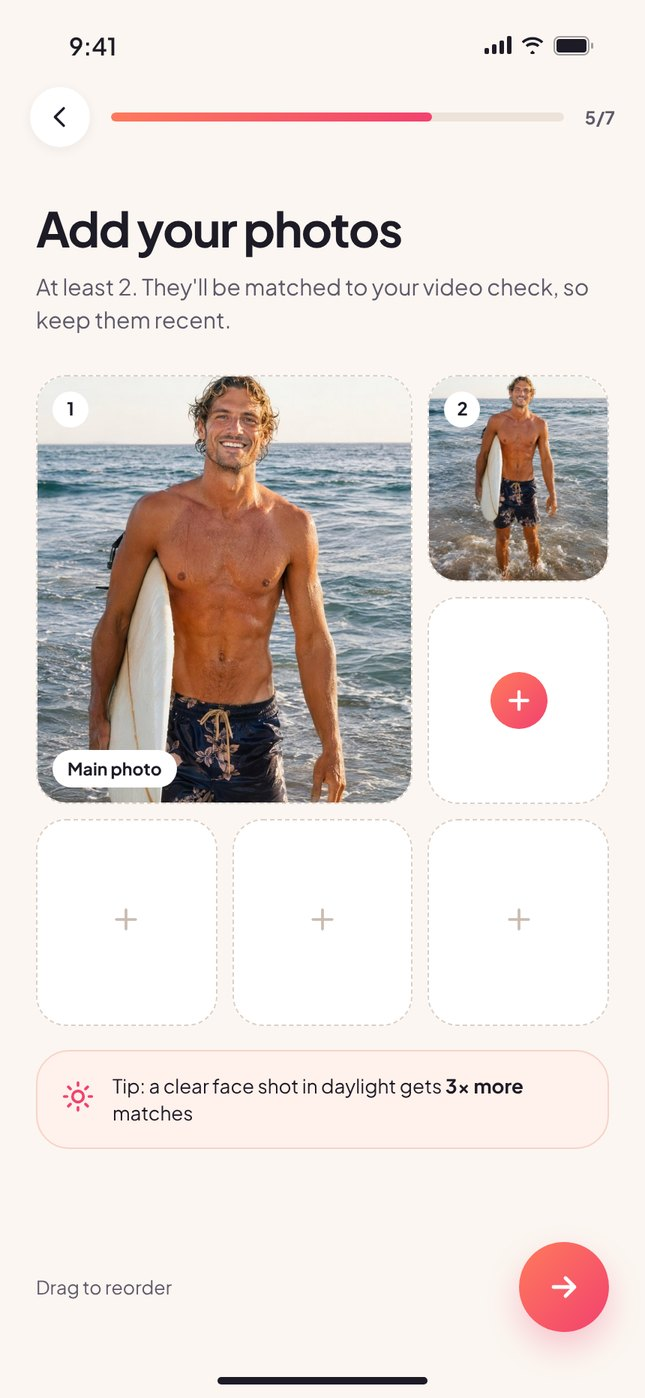
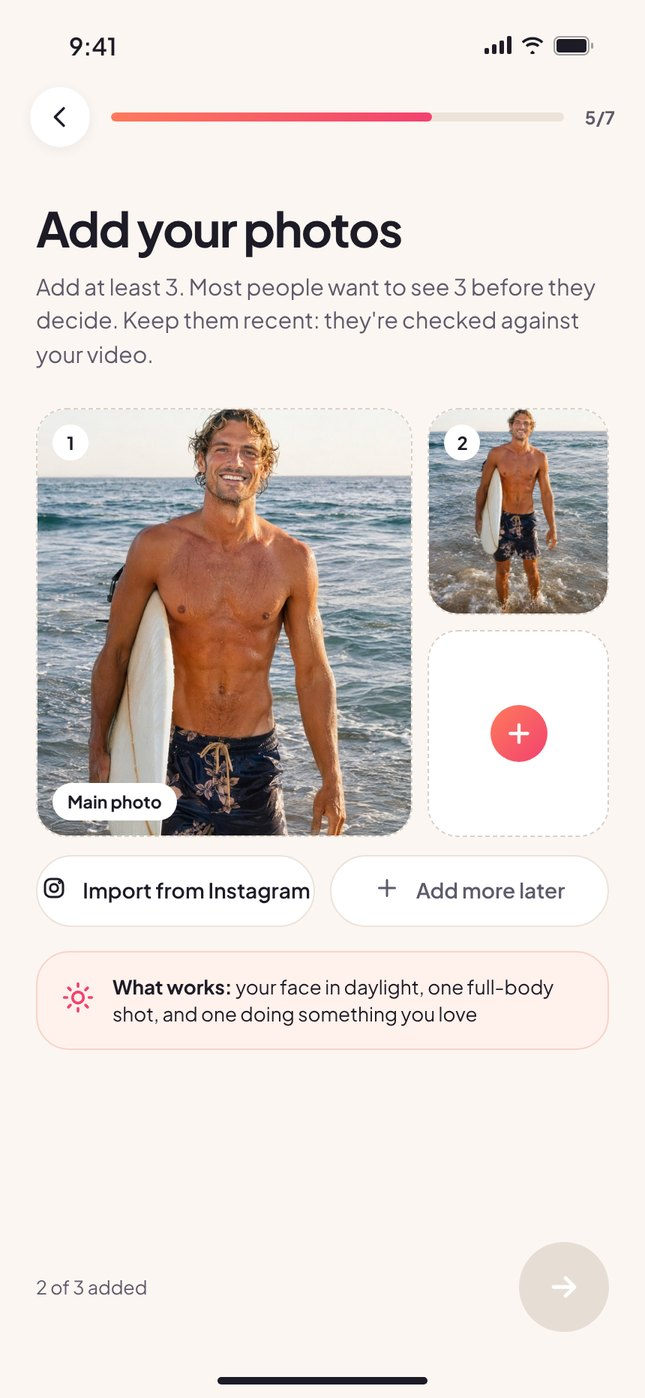
Vidit: add real survey research, brief vs research, updated screens
Claude-Session: https://claude.ai/code/session_01CtJMhMmNPj9aGCH1E7C3GP

diff --git a/vidit.html b/vidit.html
@@ -105,6 +105,19 @@ footer{padding:40px var(--pad) 56px;max-width:1240px;margin:0 auto;display:flex;
 .next .nn b{display:inline-block;transition:transform .3s}.next:hover .nn b{transform:translateX(10px)}
 .next .ns{display:block;font-size:15px;opacity:.6;margin-top:6px}
 .next .nl{color:var(--pink);opacity:1;font-weight:700}.next .nn{font-weight:800}
+.lead2{font-size:17px;color:#4a4653;max-width:68ch;margin-top:18px}
+.nums{display:grid;grid-template-columns:repeat(3,minmax(0,1fr));gap:36px 32px;margin-top:40px}
+@media(max-width:860px){.nums{grid-template-columns:repeat(2,minmax(0,1fr))}}
+.nums b{display:block;font-size:clamp(40px,5vw,60px);font-weight:800;letter-spacing:-.045em;line-height:1;background:var(--grad);-webkit-background-clip:text;background-clip:text;color:transparent}
+.nums span{display:block;font-size:14.5px;color:var(--muted);margin-top:10px;max-width:30ch}
+.vs{margin-top:36px;display:flex;flex-direction:column;gap:12px}
+.vrow{display:grid;grid-template-columns:1fr 1.3fr 1.3fr;gap:28px;background:#fff;border-radius:22px;padding:24px 26px}
+@media(max-width:860px){.vrow{grid-template-columns:1fr;gap:12px}}
+.vrow .k{display:block;font-size:11.5px;font-weight:800;letter-spacing:.08em;text-transform:uppercase;color:var(--pink);margin-bottom:6px}
+.vrow h4{font-size:19px;font-weight:700;letter-spacing:-.015em;line-height:1.25}
+.vrow p{font-size:14.5px;color:#4a4653}
+.flow{grid-template-columns:repeat(5,1fr)!important}
+@media(max-width:600px){.flow{grid-template-columns:repeat(3,1fr)!important}}
 </style>
 </head>
 <body>
@@ -120,8 +133,8 @@ footer{padding:40px var(--pad) 56px;max-width:1240px;margin:0 auto;display:flex;
    <div class="facts">
     <div><span>Role</span>Product designer, end to end</div>
     <div><span>Platform</span>iOS app</div>
-    <div><span>Scope</span>Research, user interviews, flows, UI</div>
-    <div><span>Status</span>Early-stage startup concept</div>
+    <div><span>Scope</span>User research, product definition, UX/UI</div>
+    <div><span>Status</span>Startup didn't launch · redesigned 2026</div>
    </div>
   </div>
   <div class="trio">
@@ -137,28 +150,43 @@ footer{padding:40px var(--pad) 56px;max-width:1240px;margin:0 auto;display:flex;
   <div><div class="eyebrow">Overview</div><h2>Matches that <em>never become&nbsp;dates</em></h2></div>
   <div class="body">
    <p class="big">Most dating apps are great at creating matches and bad at turning them into real connections.</p>
-   <p>I joined an early-stage startup as its only designer and built the product from zero: research and user interviews, product definition, user flows, and every screen. The startup didn't go to market in the end, but the concept was fully designed.</p>
-   <p>For this case study I revisited the original screens and pushed them further: a new visual identity, a shorter onboarding, and the screens the core idea was missing.</p>
+   <p>I joined an early-stage startup as its only designer and built the product from zero: user research, product definition, user flows and every screen. The startup didn't go to market in the end.</p>
+   <p>For this case study I went back to my original research and screens and pushed them further: a new visual identity, a shorter onboarding, and the screens the research pointed to but the first version was missing.</p>
   </div>
  </section>
 
  <section class="s fade" style="padding-top:0">
-  <div class="eyebrow">The problem</div>
-  <h2>Three things that make dating apps <em>exhausting</em></h2>
-  <div class="cards3 plain" style="gap:32px">
-   <div class="c"><span class="k">01</span><h4>Endless texting</h4><p>Chats drag on for days, lose energy, and fade out before anyone hears the other person's voice.</p></div>
-   <div class="c"><span class="k">02</span><h4>Who is this, really?</h4><p>Old, filtered or fake photos make every match feel like a gamble, and some feel unsafe.</p></div>
-   <div class="c"><span class="k">03</span><h4>Ghosting</h4><p>With no clear next step, conversations just stop and nobody knows why.</p></div>
+  <div class="eyebrow">Research</div>
+  <h2>What <em>110 people</em> told me</h2>
+  <p class="lead2">Before designing, I ran a survey of 110 people (most aged 22–33, 85% looking for a relationship, 83% women), watched three women sign up to Raya, audited the sign-up flows of Tinder, Bumble, Hinge and Raya, and went through published research, including Pew Research Center's survey of 4,860 US adults.</p>
+  <div class="nums">
+   <div><b>5%</b><span>rated their dating-app experience 4 or 5 out of 5. The average was 2.4.</span></div>
+   <div><b>89%</b><span>want to know what the other person is looking for: serious, casual or not sure.</span></div>
+   <div><b>75%</b><span>want to see at least 3 photos before deciding.</span></div>
+   <div><b>72%</b><span>said mandatory verification would make them feel safer.</span></div>
+   <div><b>63%</b><span>move the chat to WhatsApp or Instagram within a day.</span></div>
+   <div><b>1 of 110</b><span>wanted a phone call right after a match. 70% only after days of texting or a first date.</span></div>
   </div>
-  <p class="quote" style="margin-top:44px;max-width:30ch">What if every match had to become a real conversation?</p>
+  <p class="lead2" style="margin-top:34px">In the Raya observation, the photo step was where all three participants got stuck. Two left the app to ask friends and edit their photos before coming back.</p>
+ </section>
+
+ <section class="s fade" style="padding-top:0">
+  <div class="eyebrow">Brief vs. research</div>
+  <h2>What the brief asked, and <em>what I recommended</em></h2>
+  <div class="vs">
+   <div class="vrow"><div><span class="k">Asked</span><h4>Book a call right after every match</h4></div><div><span class="k">Found</span><p>Only 1 of 110 wanted that. At the same time, voice conversations convey emotion more accurately than text (Kraus, <i>American Psychologist</i>, 2017).</p></div><div><span class="k">Outcome</span><p>A compromise: 10 messages first, then a next step. In this redesign I added a choice: talk, meet, or <b>not yet</b>.</p></div></div>
+   <div class="vrow"><div><span class="k">Asked</span><h4>Face recognition plus an ID scan</h4></div><div><span class="k">Found</span><p>72% want mandatory verification, but storing face and ID data is heavily restricted in parts of Europe, and the app was meant to go international.</p></div><div><span class="k">Outcome</span><p>A mandatory selfie-video check matched to profile photos, with consent. The video is deleted after the check.</p></div></div>
+   <div class="vrow"><div><span class="k">Asked</span><h4>A password at sign-up</h4></div><div><span class="k">Found</span><p>The apps I audited use a phone number and SMS code only. A password adds friction without adding trust.</p></div><div><span class="k">Outcome</span><p>Phone number and code. No password.</p></div></div>
+  </div>
+  <p class="quote" style="margin-top:44px;max-width:32ch">"I don't talk on the phone before we meet."</p><p style="margin-top:8px;font-size:13px;color:var(--muted)">Survey respondent</p>
  </section>
 
  <section class="s fade" style="padding-top:0">
   <div class="eyebrow">Design principles</div>
   <h2>The rules behind the product</h2>
   <div class="cards4 plain" style="gap:32px">
-   <div class="c"><span class="k">01</span><h4>Real people only</h4><p>A 3-second video check for everyone, so the verified badge actually means something.</p></div>
-   <div class="c"><span class="k">02</span><h4>10 messages, then talk</h4><p>Enough to break the ice and get curious, not enough to get stuck in a pen-pal loop.</p></div>
+   <div class="c"><span class="k">01</span><h4>Real people only</h4><p>A short video check for everyone, matched to their photos, so the badge means something.</p></div>
+   <div class="c"><span class="k">02</span><h4>10 messages, then a next step</h4><p>Enough to break the ice. Then both choose what feels right, instead of texting forever.</p></div>
    <div class="c"><span class="k">03</span><h4>Respect everyone's time</h4><p>Both sides share when they're free, and the app finds the overlap. No back and forth.</p></div>
    <div class="c"><span class="k">04</span><h4>Safe by default</h4><p>The number stays private, verification videos are deleted, and block or report is always one tap away.</p></div>
   </div>
@@ -166,16 +194,17 @@ footer{padding:40px var(--pad) 56px;max-width:1240px;margin:0 auto;display:flex;
 
  <section class="s fade" style="padding-top:0">
   <div class="eyebrow">Onboarding &amp; verification</div>
-  <h2>From download to <em>verified</em> in 7 steps</h2>
+  <h2>From download to <em>verified</em> in 7 steps</h2><p class="lead2">Welcome and confirmation screens aren't counted as steps.</p>
   <div class="flow">
    <figure><div class="scr"><img src="media/vidit/01-welcome.jpg" alt=""></div><figcaption><b>Welcome</b>The promise, up front</figcaption></figure>
    <figure><div class="scr"><img src="media/vidit/02-phone.jpg" alt=""></div><figcaption><b>Phone</b>Never shown</figcaption></figure>
    <figure><div class="scr"><img src="media/vidit/03-code.jpg" alt=""></div><figcaption><b>Code</b>SMS check</figcaption></figure>
-   <figure><div class="scr"><img src="media/vidit/04-basics.jpg" alt=""></div><figcaption><b>Basics</b>4 screens → 1</figcaption></figure>
+   <figure><div class="scr"><img src="media/vidit/04-basics.jpg" alt=""></div><figcaption><b>Basics</b>Incl. "looking for"</figcaption></figure>
    <figure><div class="scr"><img src="media/vidit/05-lifestyle.jpg" alt=""></div><figcaption><b>Quick ones</b>8 screens → 1</figcaption></figure>
-   <figure><div class="scr"><img src="media/vidit/06-photos.jpg" alt=""></div><figcaption><b>Photos</b>Matched to video</figcaption></figure>
+   <figure><div class="scr"><img src="media/vidit/06-photos.jpg" alt=""></div><figcaption><b>Photos</b>3 minimum</figcaption></figure>
    <figure><div class="scr"><img src="media/vidit/07-verify.jpg" alt=""></div><figcaption><b>Why verify</b>Trust first</figcaption></figure>
    <figure><div class="scr"><img src="media/vidit/08-scan.jpg" alt=""></div><figcaption><b>Face scan</b>3 seconds</figcaption></figure>
+   <figure><div class="scr"><img src="media/vidit/08b-verifying.jpg" alt=""></div><figcaption><b>Checking</b>Visible progress</figcaption></figure>
    <figure><div class="scr"><img src="media/vidit/09-verified.jpg" alt=""></div><figcaption><b>Verified</b>Badge earned</figcaption></figure>
   </div>
  </section>
@@ -191,7 +220,7 @@ footer{padding:40px var(--pad) 56px;max-width:1240px;margin:0 auto;display:flex;
   <div class="stat">
    <div><b>20+ → 7</b><span>onboarding steps</span></div>
    <div><b>8 → 1</b><span>lifestyle question screens</span></div>
-   <div><b>1</b><span>font, one coral accent</span></div>
+   <div><b>13–15</b><span>steps in Tinder and Bumble (my flow audit)</span></div>
   </div>
  </section>
 
@@ -200,25 +229,25 @@ footer{padding:40px var(--pad) 56px;max-width:1240px;margin:0 auto;display:flex;
   <h2>From match to <em>a real conversation</em></h2>
 
   <div class="feat">
-   <div class="txt"><span class="n">01 · Trust</span><h3>A face scan that takes 3 seconds</h3><p>Before anyone can match, they record a short selfie video. It's compared with their photos and then deleted. The verified badge shows on every profile, card and chat.</p>
-    <ul><li><b>Live guidance:</b> face found, good light, turn your head</li><li><b>Private:</b> the video never appears on the profile</li><li>Explained in plain words <b>before</b> the camera opens</li></ul></div>
-   <div class="stage"><div class="pair"><div class="scr"><img src="media/vidit/07-verify.jpg" alt="Verification intro"></div><div class="scr"><img src="media/vidit/08-scan.jpg" alt="Face scan"></div></div></div>
+   <div class="txt"><span class="n">01 · Trust</span><h3>A short video check, matched to your photos</h3><p>Before anyone can match, they record a short selfie video. It's compared with their profile photos to confirm they're the person in the pictures, then deleted. It isn't a full ID check, but it makes fake profiles much harder.</p>
+    <ul><li><b>Live guidance:</b> face found, good light, turn your head</li><li><b>Private:</b> the video never appears on the profile</li><li>A "checking" screen shows the work being done. People trust a result more when they see the effort behind it</li></ul></div>
+   <div class="stage"><div class="pair"><div class="scr"><img src="media/vidit/08-scan.jpg" alt="Face scan"></div><div class="scr"><img src="media/vidit/08b-verifying.jpg" alt="Checking your video"></div></div></div>
   </div>
 
   <div class="feat">
    <div class="txt"><span class="n">02 · Discover</span><h3>Profiles that say more than a photo</h3><p>Big photos, a verified badge, and the basics as quick chips. The profile highlights what you have in common and shows whether the person is open to a call this week.</p>
-    <ul><li>"You have 4 things in common" to start the conversation</li><li>Lifestyle answers shown as chips, not paragraphs</li><li>Block and report always visible</li></ul></div>
+    <ul><li><b>"Looking for" comes first</b>, the top thing respondents wanted to see (89%)</li><li>"You have 4 things in common" to start the conversation</li><li>Lifestyle answers shown as chips, not paragraphs</li></ul></div>
    <div class="stage"><div class="pair"><div class="scr"><img src="media/vidit/10-discover.jpg" alt="Discover"></div><div class="scr"><img src="media/vidit/11-profile.jpg" alt="Profile details"></div></div></div>
   </div>
 
   <div class="feat">
-   <div class="txt"><span class="n">03 · The 10-message rule</span><h3>Every message counts</h3><p>The match screen explains the rule right away. In the chat, a counter shows how many messages are left, so both people know where the conversation is going.</p>
-    <ul><li>Two half-hearts come together on match, the same idea as the logo</li><li>Visual counter: <b>3 of 10 left</b></li><li>The chat list shows each conversation's status: messages left, waiting for a time, or call booked</li></ul></div>
-   <div class="stage"><div class="pair"><div class="scr"><img src="media/vidit/12-match.jpg" alt="It's a match"></div><div class="scr"><img src="media/vidit/14-chat.jpg" alt="Chat with counter"></div></div></div>
+   <div class="txt"><span class="n">03 · The 10-message rule</span><h3>Every message counts, then you both choose</h3><p>The match screen explains the rule right away, and a counter shows how many messages are left. When they run out, both people choose what feels right: talk first, meet, or not yet. Nobody is pushed into a call, and you only see what you both picked.</p>
+    <ul><li>Two half-hearts come together on match, the same idea as the logo</li><li><b>"Not yet"</b> adds 5 more messages and asks again later. It came straight from the survey</li><li>The chat list shows each conversation's status: messages left, waiting for a time, or call booked</li></ul></div>
+   <div class="stage"><div class="pair"><div class="scr"><img src="media/vidit/14-chat.jpg" alt="Chat with counter"></div><div class="scr"><img src="media/vidit/14b-next.jpg" alt="What feels right next"></div></div></div>
   </div>
 
   <div class="feat">
-   <div class="txt"><span class="n">04 · Picking a time</span><h3>No more "so when are you free?"</h3><p>When the messages run out, each person picks a few free slots and chooses voice or video. Vidit shows the times that work for both, and the call is booked.</p>
+   <div class="txt"><span class="n">04 · Picking a time</span><h3>No more "so when are you free?"</h3><p>If both choose to talk, each person picks a few free slots and chooses voice or video. Vidit shows the times that work for both, and the call is booked.</p>
     <ul><li>Shared slots are highlighted: <b>"Dana too"</b></li><li>Add to calendar, or reschedule</li><li>The chat stays locked until after the call, which keeps the focus on talking</li></ul></div>
    <div class="stage"><div class="pair"><div class="scr"><img src="media/vidit/15-availability.jpg" alt="Availability picker"></div><div class="scr"><img src="media/vidit/16-booked.jpg" alt="Call booked"></div></div></div>
   </div>
@@ -231,7 +260,7 @@ footer{padding:40px var(--pad) 56px;max-width:1240px;margin:0 auto;display:flex;
 
   <div class="feat">
    <div class="txt"><span class="n">06 · After the call</span><h3>A clear next step, and a kind ending</h3><p>After the call, each person answers privately: keep talking, meet in person, or not a match. If both say yes, the chat opens with no limits. If not, it closes kindly, so nobody gets ghosted.</p>
-    <ul><li>Answers are private until both respond</li><li>"Let's meet" suggests a spot nearby</li><li>Ends the ghosting problem by design</li></ul></div>
+    <ul><li>Answers are private until both respond</li><li>"Let's meet" suggests a spot nearby</li><li>Designed to reduce ghosting with a clear, kind ending</li></ul></div>
    <div class="stage"><div class="pair"><div class="scr"><img src="media/vidit/19-after.jpg" alt="After the call"></div><div class="scr"><img src="media/vidit/13-chats.jpg" alt="Chats list"></div></div></div>
   </div>
  </section>
@@ -264,9 +293,10 @@ footer{padding:40px var(--pad) 56px;max-width:1240px;margin:0 auto;display:flex;
  <section class="s split fade learn">
   <div><div class="eyebrow">What I learned</div><h2>A constraint can be <em>the product</em></h2></div>
   <div class="body">
-   <p class="big">Limiting messages sounds like taking something away. In practice, it gives every conversation a direction and every match a reason to move forward.</p>
-   <p>Designing from zero meant defining the rules before the screens: what verification means, when a chat opens or closes, and how to end things kindly. Once the rules were clear, the interface could stay simple.</p>
-   <p class="note">Concept project for an early-stage startup that didn't launch. Names and photos shown are illustrative.</p>
+   <p class="big">The brief asked for a call after every match. The research said almost nobody wants that. Keeping the goal while giving people a choice is the part of this project I'm proudest of.</p>
+   <p>Designing from zero meant defining the rules before the screens: what verification means, when a chat moves forward, and how to end things kindly. Once the rules were clear, the interface could stay simple.</p>
+   <p><b style="color:var(--ink)">Limits:</b> the survey was mostly women (83%), the Raya observation had three participants, and the screens weren't usability-tested before the startup stopped. Next, I'd test the "What's next" choice, starting with how often people pick "Not yet" twice.</p>
+   <p class="note">Names and photos shown are illustrative.</p>
   </div>
  </section>
 </main>
